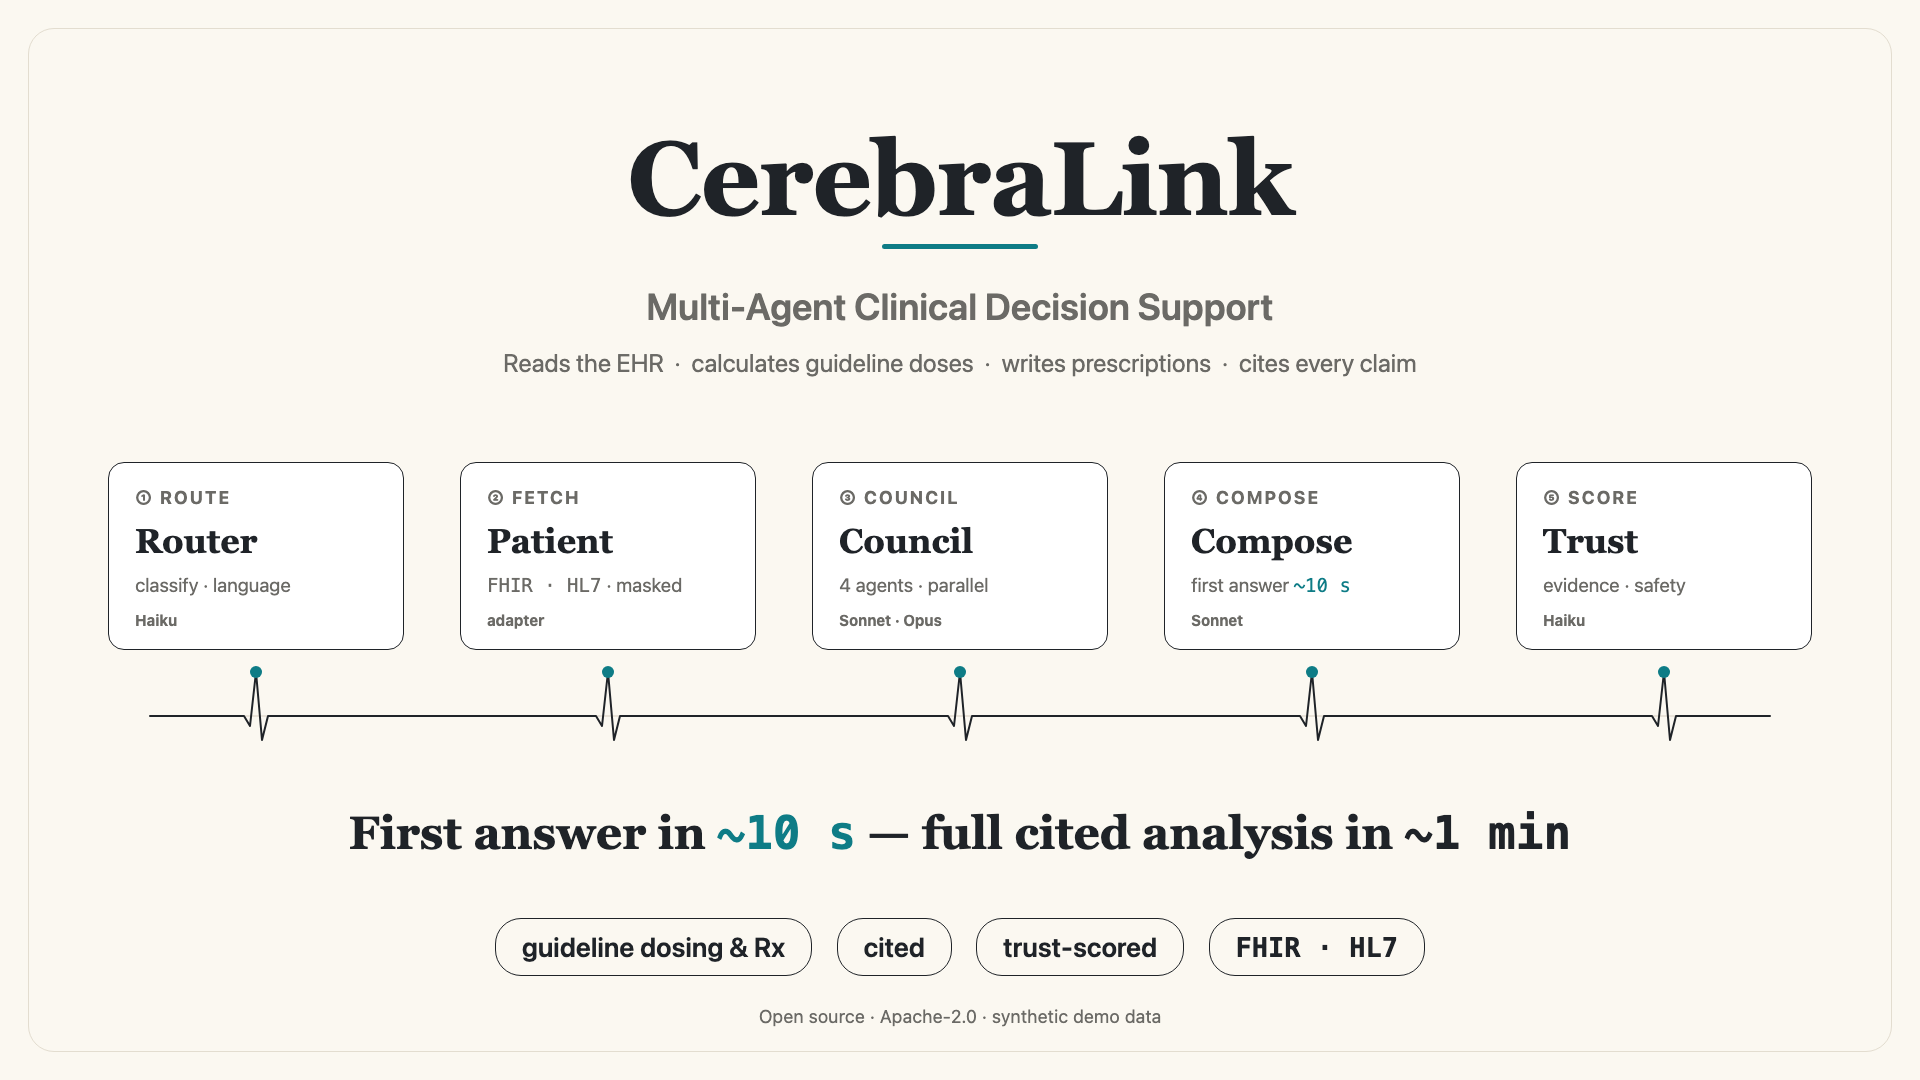
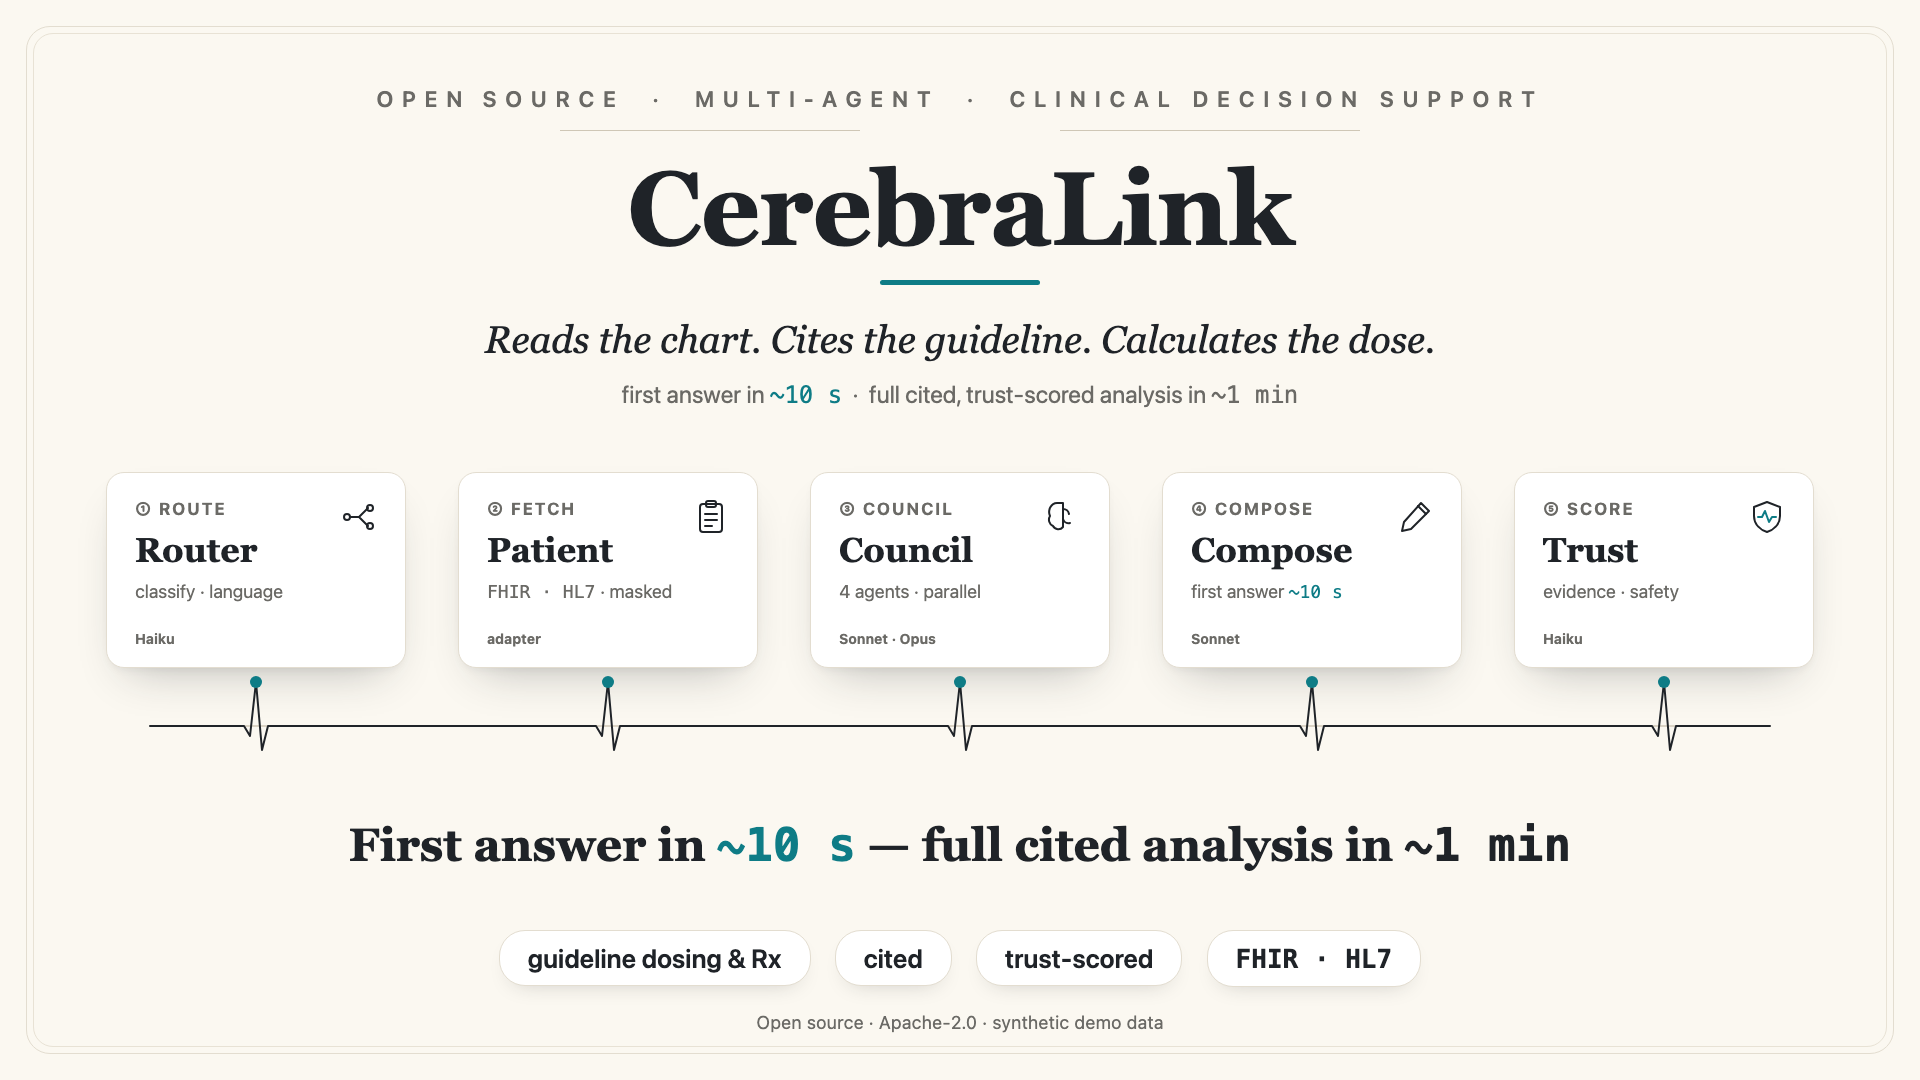
design(video): editorial-luxury explainer to match the new hero
Upgrade the html-video composition: paper grain, double frame, masthead
eyebrow + flanking rules, Georgia serif title + teal tick + serif-italic lede,
five floating phase cards (real soft shadows) each with a clinical glyph
(triage · clipboard · brain · pen · shield-pulse), ECG through-line with teal
QRS beats, soft-shadowed pills. Re-rendered mp4 (412 KB) + webp (~2.2 MB) + poster.

diff --git a/docs/assets/video/html-video-template/index.html b/docs/assets/video/html-video-template/index.html
@@ -8,64 +8,92 @@
     <style>
       :root{
         --paper:#FBF8F1; --ink:#1F2328; --muted:#6B6A66;
-        --hair:#E3DDD0; --teal:#0E7C86; --sage:#5E7E5A; --clay:#B5562B;
+        --hair:#E3DDD0; --hair2:#CFC7B6; --teal:#0E7C86; --sage:#5E7E5A; --clay:#B5562B;
         --serif:Georgia,'Times New Roman',serif;
         --sans:'Segoe UI',-apple-system,BlinkMacSystemFont,Helvetica,Arial,sans-serif;
         --mono:ui-monospace,'SFMono-Regular',Menlo,Consolas,monospace;
       }
       *{margin:0;padding:0;box-sizing:border-box}
       html,body{width:1920px;height:1080px;overflow:hidden;background:var(--paper);font-family:var(--sans);color:var(--ink)}
-      .wrap{position:absolute;inset:28px;border:1px solid var(--hair);border-radius:26px}
+      /* paper grain */
+      body::before{content:"";position:absolute;inset:0;pointer-events:none;
+        background-image:radial-gradient(rgba(31,35,40,.05) 0.5px, transparent 0.6px);background-size:4px 4px;}
+      .frame{position:absolute;inset:26px;border:1px solid var(--hair);border-radius:24px}
+      .frame2{position:absolute;inset:33px;border:1px solid #E8E2D5;border-radius:20px}
       .center{position:absolute;left:0;width:1920px;text-align:center}
-      .title{top:120px;font-family:var(--serif);font-weight:700;font-size:104px;letter-spacing:-1px;color:var(--ink)}
-      .tick{position:absolute;top:244px;left:50%;margin-left:-78px;width:156px;height:5px;background:var(--teal);border-radius:3px}
-      .sub{top:284px;font-size:37px;font-weight:600;color:var(--muted)}
-      .what{top:348px;font-size:25px;color:var(--muted)}
-      .mono{font-family:var(--mono)}
-      .teal{color:var(--teal)}
+      .mono{font-family:var(--mono)} .teal{color:var(--teal)}
 
-      .card{position:absolute;top:462px;width:296px;height:188px;margin-left:-148px;
-        border:1.5px solid var(--ink);border-radius:16px;background:#FFFFFF;padding:24px 26px}
-      .card .ph{font-size:18px;font-weight:700;letter-spacing:2px;color:var(--muted)}
-      .card .nm{font-size:34px;font-weight:700;margin-top:14px;color:var(--ink);font-family:var(--serif)}
-      .card .ds{font-size:19px;color:var(--muted);margin-top:14px}
-      .card .pin{position:absolute;bottom:20px;left:26px;font-size:15px;font-weight:700;color:var(--muted)}
+      .eyebrow{top:86px;font-size:22px;letter-spacing:9px;color:var(--muted);font-weight:600}
+      .rule{position:absolute;top:130px;height:1px;background:var(--hair2)}
+      .rule.l{left:560px;width:300px} .rule.r{right:560px;width:300px}
+      .title{top:150px;font-family:var(--serif);font-weight:700;font-size:104px;letter-spacing:-1px;color:var(--ink)}
+      .tick{position:absolute;top:280px;left:50%;margin-left:-80px;width:160px;height:5px;background:var(--teal);border-radius:3px}
+      .lede{top:318px;font-family:var(--serif);font-style:italic;font-size:38px;color:var(--ink)}
+      .what{top:380px;font-size:24px;color:var(--muted)}
 
-      .callout{top:806px;font-size:46px;font-weight:700;color:var(--ink);font-family:var(--serif)}
-      .tagline{top:918px}
-      .pill{display:inline-block;margin:0 10px;padding:12px 26px;border-radius:26px;
-        border:1.5px solid var(--ink);font-size:27px;font-weight:600;color:var(--ink)}
-      .foot{top:1006px;font-size:18px;color:var(--muted);letter-spacing:.3px}
+      .card{position:absolute;top:472px;width:300px;height:196px;margin-left:-150px;
+        border:1px solid var(--hair);border-radius:18px;background:#FFFFFF;padding:26px 28px;
+        box-shadow:0 22px 44px -22px rgba(31,35,40,.30), 0 4px 12px -6px rgba(31,35,40,.12)}
+      .card .ph{font-size:17px;font-weight:700;letter-spacing:2px;color:var(--muted)}
+      .card .nm{font-size:34px;font-weight:700;margin-top:12px;color:var(--ink);font-family:var(--serif)}
+      .card .ds{font-size:18px;color:var(--muted);margin-top:12px}
+      .card .pin{position:absolute;bottom:20px;left:28px;font-size:14px;font-weight:700;color:var(--muted)}
+      .card .ico{position:absolute;top:24px;right:26px}
+
+      .callout{top:818px;font-size:46px;font-weight:700;color:var(--ink);font-family:var(--serif)}
+      .tagline{top:930px}
+      .pill{display:inline-block;margin:0 10px;padding:12px 28px;border-radius:26px;background:#fff;
+        border:1px solid var(--hair);font-size:26px;font-weight:600;color:var(--ink);
+        box-shadow:0 10px 22px -14px rgba(31,35,40,.25)}
+      .foot{top:1012px;font-size:18px;color:var(--muted);letter-spacing:.4px}
     </style>
   </head>
   <body>
-    <div class="wrap"></div>
+    <div class="frame"></div>
+    <div class="frame2"></div>
 
+    <div class="center eyebrow" id="eb">OPEN&#8201;SOURCE&nbsp;&nbsp;·&nbsp;&nbsp;MULTI-AGENT&nbsp;&nbsp;·&nbsp;&nbsp;CLINICAL DECISION SUPPORT</div>
+    <div class="rule l" id="rl"></div><div class="rule r" id="rr"></div>
     <div class="center title" id="t">CerebraLink</div>
     <div class="tick" id="tick"></div>
-    <div class="center sub" id="s">Multi-Agent Clinical Decision Support</div>
-    <div class="center what" id="w">Reads the EHR&nbsp;&nbsp;·&nbsp;&nbsp;calculates guideline doses&nbsp;&nbsp;·&nbsp;&nbsp;writes prescriptions&nbsp;&nbsp;·&nbsp;&nbsp;cites every claim</div>
+    <div class="center lede" id="ld">Reads the chart. Cites the guideline. Calculates the dose.</div>
+    <div class="center what" id="w">first answer in <span class="mono teal">~10 s</span>&nbsp;&nbsp;·&nbsp;&nbsp;full cited, trust-scored analysis in <span class="mono">~1 min</span></div>
 
-    <!-- 5 phase cards -->
-    <div class="card" id="c1" style="left:256px;"><div class="ph">① ROUTE</div><div class="nm">Router</div><div class="ds">classify · language</div><div class="pin">Haiku</div></div>
-    <div class="card" id="c2" style="left:608px;"><div class="ph">② FETCH</div><div class="nm">Patient</div><div class="ds"><span class="mono">FHIR · HL7</span> · masked</div><div class="pin">adapter</div></div>
-    <div class="card" id="c3" style="left:960px;"><div class="ph">③ COUNCIL</div><div class="nm">Council</div><div class="ds">4 agents · parallel</div><div class="pin">Sonnet · Opus</div></div>
-    <div class="card" id="c4" style="left:1312px;"><div class="ph">④ COMPOSE</div><div class="nm">Compose</div><div class="ds">first answer <span class="mono teal">~10 s</span></div><div class="pin">Sonnet</div></div>
-    <div class="card" id="c5" style="left:1664px;"><div class="ph">⑤ SCORE</div><div class="nm">Trust</div><div class="ds">evidence · safety</div><div class="pin">Haiku</div></div>
+    <!-- 5 phase cards, each with a real clinical glyph -->
+    <div class="card" id="c1" style="left:256px;">
+      <div class="ph">① ROUTE</div><div class="nm">Router</div><div class="ds">classify · language</div><div class="pin">Haiku</div>
+      <svg class="ico" width="40" height="40" viewBox="0 0 40 40" fill="none" stroke="#1F2328" stroke-width="2" stroke-linecap="round" stroke-linejoin="round"><circle cx="8" cy="20" r="3"/><path d="M11 20h9m0 0l9-9m-9 9l9 9"/><circle cx="31" cy="11" r="3"/><circle cx="31" cy="29" r="3"/></svg>
+    </div>
+    <div class="card" id="c2" style="left:608px;">
+      <div class="ph">② FETCH</div><div class="nm">Patient</div><div class="ds"><span class="mono">FHIR · HL7</span> · masked</div><div class="pin">adapter</div>
+      <svg class="ico" width="40" height="40" viewBox="0 0 40 40" fill="none" stroke="#1F2328" stroke-width="2" stroke-linecap="round" stroke-linejoin="round"><rect x="9" y="7" width="22" height="28" rx="3"/><rect x="15" y="4" width="10" height="6" rx="2"/><path d="M14 17h12M14 23h12M14 29h7"/></svg>
+    </div>
+    <div class="card" id="c3" style="left:960px;">
+      <div class="ph">③ COUNCIL</div><div class="nm">Council</div><div class="ds">4 agents · parallel</div><div class="pin">Sonnet · Opus</div>
+      <svg class="ico" width="40" height="40" viewBox="0 0 40 40" fill="none" stroke="#1F2328" stroke-width="2" stroke-linecap="round" stroke-linejoin="round"><path d="M14 6a8 9 0 00-7 13 7 7 0 003 10 6 6 0 0010 1V6z"/><path d="M20 12a6 6 0 016 5M20 22a6 6 0 007 4"/><circle cx="20" cy="6" r="0"/></svg>
+    </div>
+    <div class="card" id="c4" style="left:1312px;">
+      <div class="ph">④ COMPOSE</div><div class="nm">Compose</div><div class="ds">first answer <span class="mono teal">~10 s</span></div><div class="pin">Sonnet</div>
+      <svg class="ico" width="40" height="40" viewBox="0 0 40 40" fill="none" stroke="#1F2328" stroke-width="2" stroke-linecap="round" stroke-linejoin="round"><path d="M26 6l8 8-18 18-9 2 2-9z"/><path d="M23 9l8 8"/></svg>
+    </div>
+    <div class="card" id="c5" style="left:1664px;">
+      <div class="ph">⑤ SCORE</div><div class="nm">Trust</div><div class="ds">evidence · safety</div><div class="pin">Haiku</div>
+      <svg class="ico" width="40" height="40" viewBox="0 0 40 40" fill="none" stroke="#1F2328" stroke-width="2" stroke-linecap="round" stroke-linejoin="round"><path d="M20 5l13 5v9c0 9-7 14-13 16-6-2-13-7-13-16v-9z"/><path d="M11 20h4l3-6 4 11 3-5h4" stroke="#0E7C86"/></svg>
+    </div>
 
-    <!-- ECG through-line rail, running BELOW the cards -->
+    <!-- ECG through-line rail below the cards -->
     <svg width="1920" height="1080" style="position:absolute;inset:0;pointer-events:none" fill="none">
-      <line x1="150" y1="716" x2="1770" y2="716" stroke="#E3DDD0" stroke-width="1.5"/>
+      <line x1="150" y1="726" x2="1770" y2="726" stroke="#CFC7B6" stroke-width="1.5"/>
       <path id="ecg"
-        d="M150,716 H244 L250,726 L256,672 L262,740 L268,716
-                   H596 L602,726 L608,672 L614,740 L620,716
-                   H948 L954,726 L960,672 L966,740 L972,716
-                   H1300 L1306,726 L1312,672 L1318,740 L1324,716
-                   H1652 L1658,726 L1664,672 L1670,740 L1676,716 H1770"
+        d="M150,726 H244 L250,736 L256,682 L262,750 L268,726
+                   H596 L602,736 L608,682 L614,750 L620,726
+                   H948 L954,736 L960,682 L966,750 L972,726
+                   H1300 L1306,736 L1312,682 L1318,750 L1324,726
+                   H1652 L1658,736 L1664,682 L1670,750 L1676,726 H1770"
         stroke="#1F2328" stroke-width="2" stroke-linecap="round" stroke-linejoin="round"/>
       <g id="beats" fill="#0E7C86">
-        <circle cx="256" cy="672" r="0"/><circle cx="608" cy="672" r="0"/><circle cx="960" cy="672" r="0"/>
-        <circle cx="1312" cy="672" r="0"/><circle cx="1664" cy="672" r="0"/>
+        <circle cx="256" cy="682" r="0"/><circle cx="608" cy="682" r="0"/><circle cx="960" cy="682" r="0"/>
+        <circle cx="1312" cy="682" r="0"/><circle cx="1664" cy="682" r="0"/>
       </g>
     </svg>
 
@@ -82,31 +110,31 @@
       const ecg = document.querySelector("#ecg");
       const L = ecg.getTotalLength();
       gsap.set(ecg, { strokeDasharray: L, strokeDashoffset: L });
+      gsap.set(["#eb", "#rl", "#rr"], { opacity: 0 });
       gsap.set("#t", { opacity: 0, y: 18 });
-      gsap.set(["#tick", "#s", "#w"], { opacity: 0 });
-      gsap.set(".card", { opacity: 0, y: 40 });
+      gsap.set(["#tick", "#ld", "#w"], { opacity: 0 });
+      gsap.set(".card", { opacity: 0, y: 42 });
       gsap.set(["#co", "#tg", "#ft"], { opacity: 0, y: 16 });
       const beats = gsap.utils.toArray("#beats circle");
       const cards = ["#c1", "#c2", "#c3", "#c4", "#c5"];
 
       const tl = gsap.timeline();
-      tl.to("#t", { opacity: 1, y: 0, duration: 0.7, ease: "power3.out" }, 0.2);
-      tl.to("#tick", { opacity: 1, duration: 0.4 }, 0.7);
-      tl.to("#s", { opacity: 1, duration: 0.5 }, 0.9);
-      tl.to("#w", { opacity: 1, duration: 0.5 }, 1.2);
+      tl.to(["#eb", "#rl", "#rr"], { opacity: 1, duration: 0.6 }, 0.15);
+      tl.to("#t", { opacity: 1, y: 0, duration: 0.7, ease: "power3.out" }, 0.4);
+      tl.to("#tick", { opacity: 1, duration: 0.4 }, 0.9);
+      tl.to("#ld", { opacity: 1, duration: 0.5 }, 1.1);
+      tl.to("#w", { opacity: 1, duration: 0.5 }, 1.4);
       // the clinical signal draws across as the single through-line
-      tl.to(ecg, { strokeDashoffset: 0, duration: 5.0, ease: "none" }, 1.8);
-      // each phase card reveals just before the trace reaches its beat
-      cards.forEach((c, i) => tl.to(c, { opacity: 1, y: 0, duration: 0.45, ease: "power2.out" }, 2.0 + i * 0.78));
-      // QRS beats pulse as the line passes under each card
+      tl.to(ecg, { strokeDashoffset: 0, duration: 5.0, ease: "none" }, 2.0);
+      cards.forEach((c, i) => tl.to(c, { opacity: 1, y: 0, duration: 0.45, ease: "power2.out" }, 2.2 + i * 0.78));
       beats.forEach((b, i) => {
-        tl.to(b, { attr: { r: 14 }, duration: 0.18, ease: "power2.out" }, 2.7 + i * 0.78)
+        tl.to(b, { attr: { r: 14 }, duration: 0.18, ease: "power2.out" }, 2.9 + i * 0.78)
           .to(b, { attr: { r: 6 }, duration: 0.5, ease: "power2.in" }, ">");
       });
-      tl.to("#co", { opacity: 1, y: 0, duration: 0.55, ease: "power2.out" }, 6.8);
-      tl.to("#tg", { opacity: 1, y: 0, duration: 0.55, ease: "power2.out" }, 7.6);
-      tl.to("#ft", { opacity: 1, y: 0, duration: 0.5, ease: "power2.out" }, 8.2);
-      tl.to({}, { duration: 1.4 }, 8.8);
+      tl.to("#co", { opacity: 1, y: 0, duration: 0.55, ease: "power2.out" }, 7.0);
+      tl.to("#tg", { opacity: 1, y: 0, duration: 0.55, ease: "power2.out" }, 7.7);
+      tl.to("#ft", { opacity: 1, y: 0, duration: 0.5, ease: "power2.out" }, 8.3);
+      tl.to({}, { duration: 1.3 }, 8.9);
 
       window.__timelines = { main: tl };
     </script>